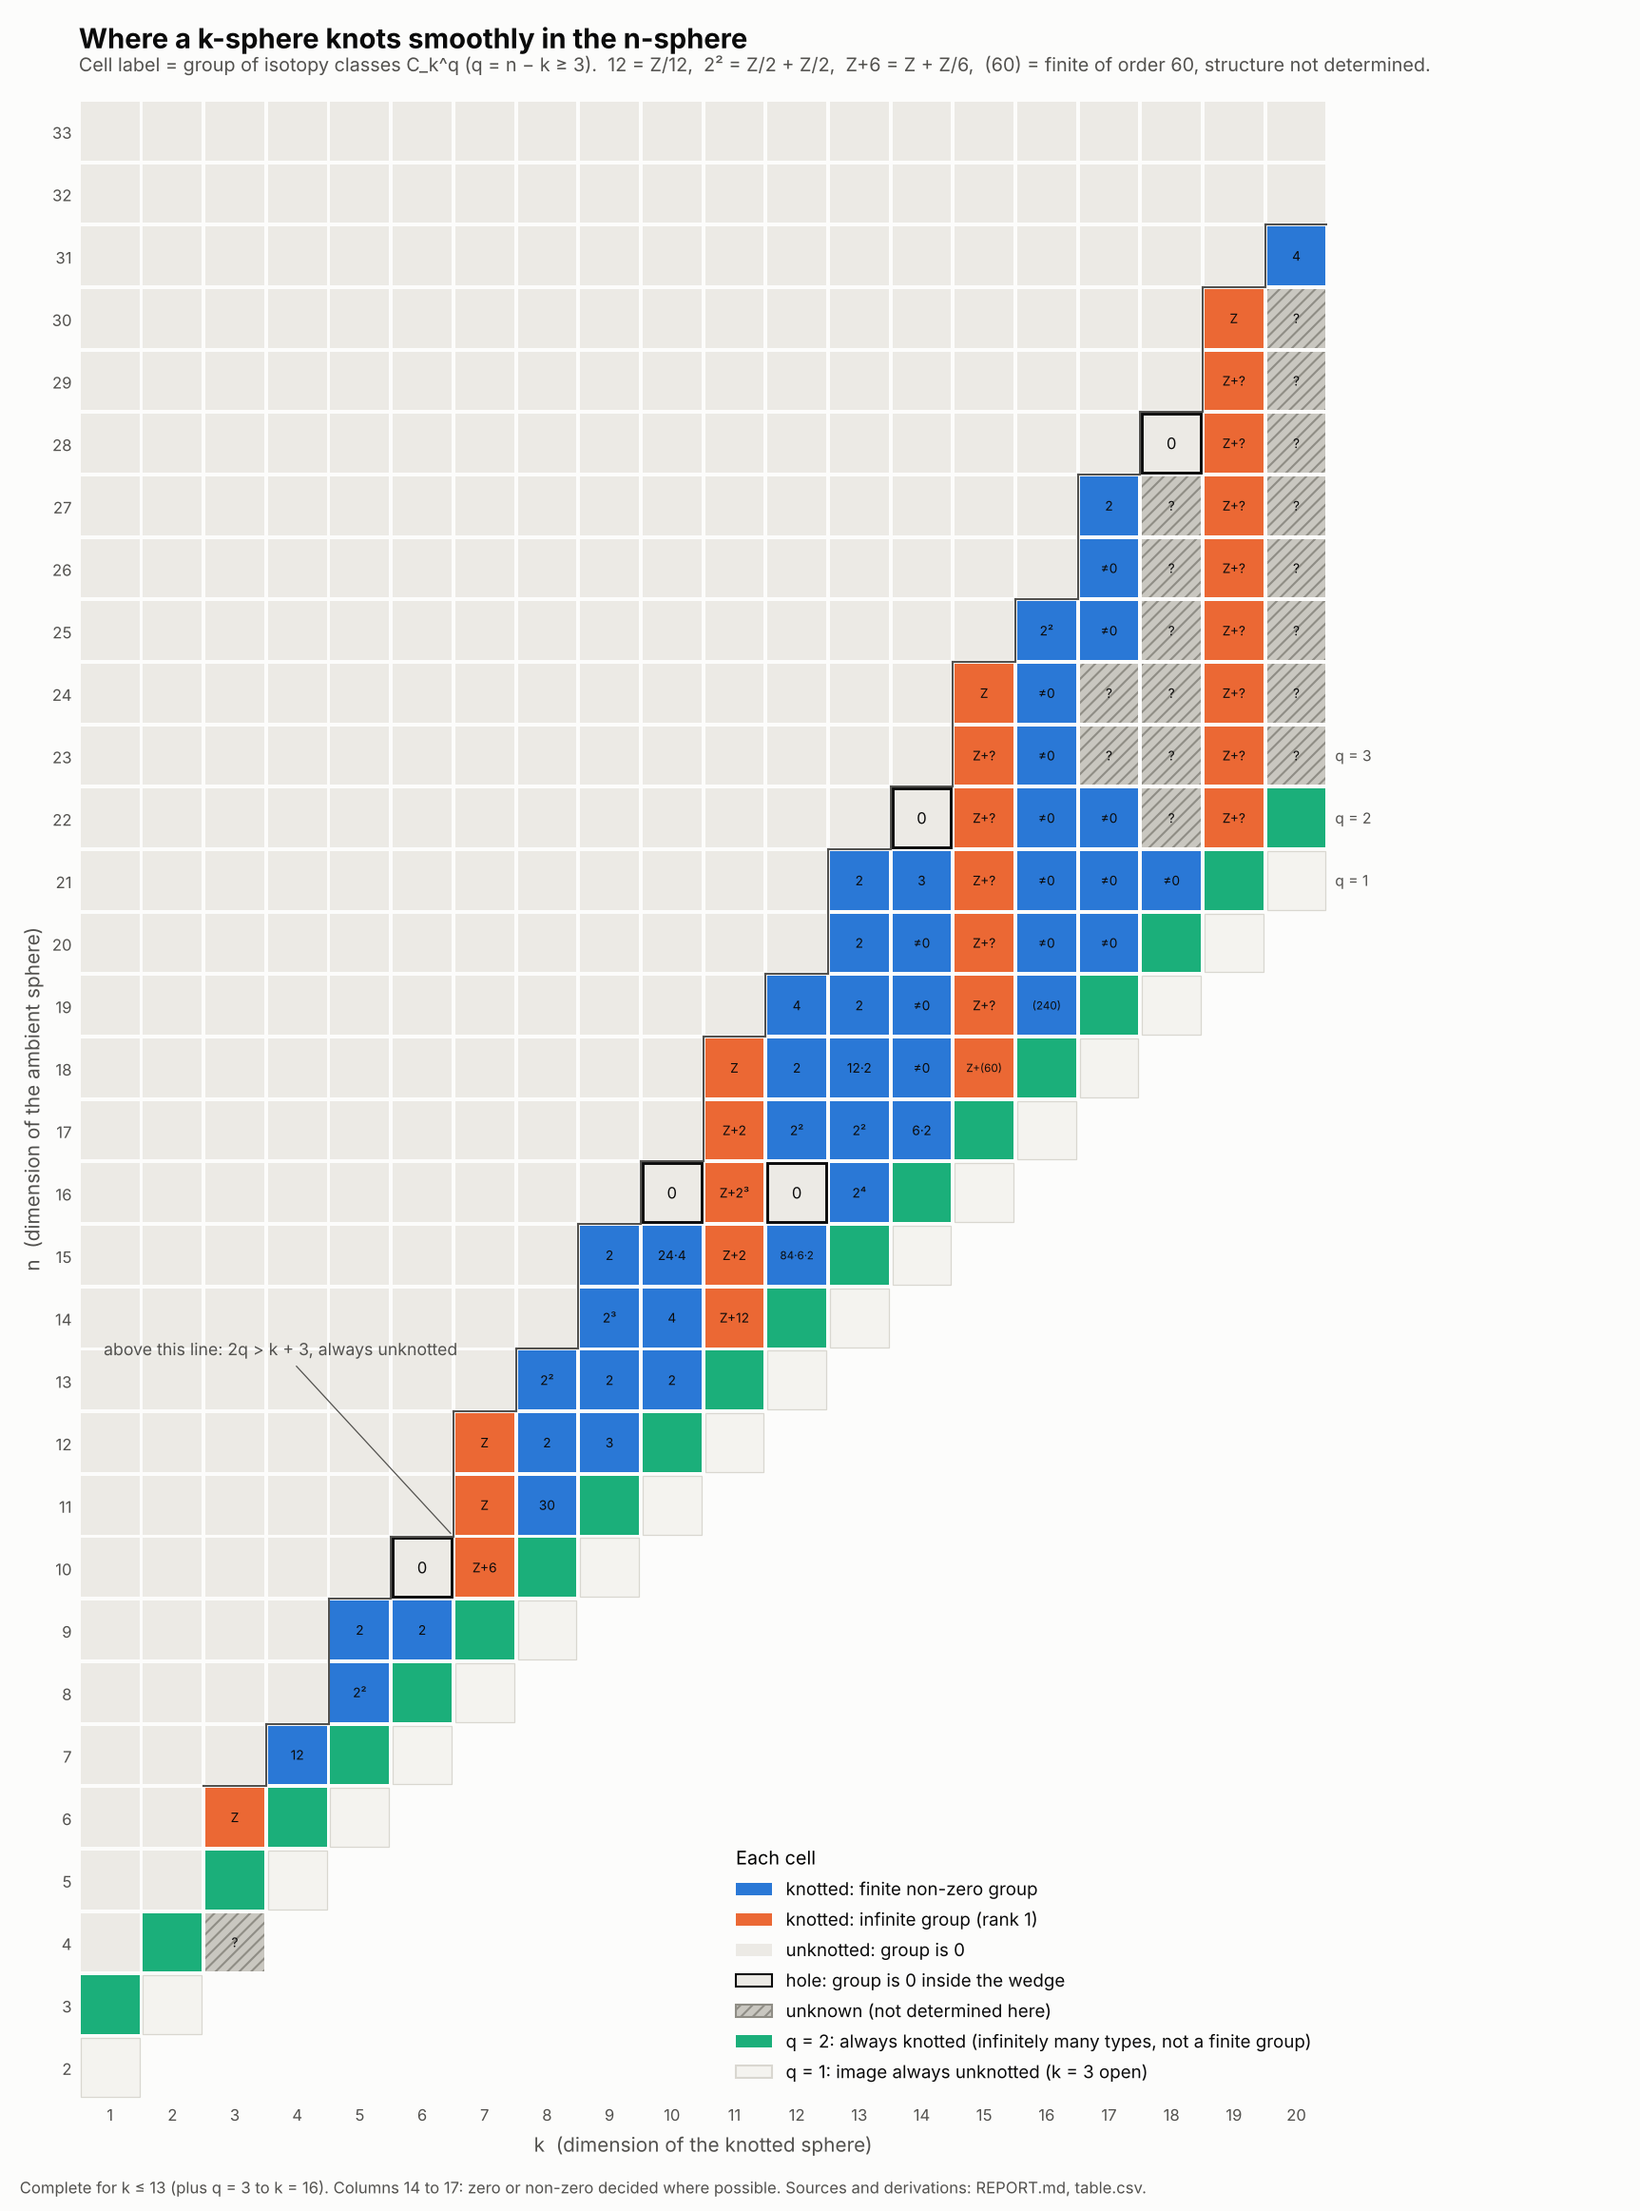
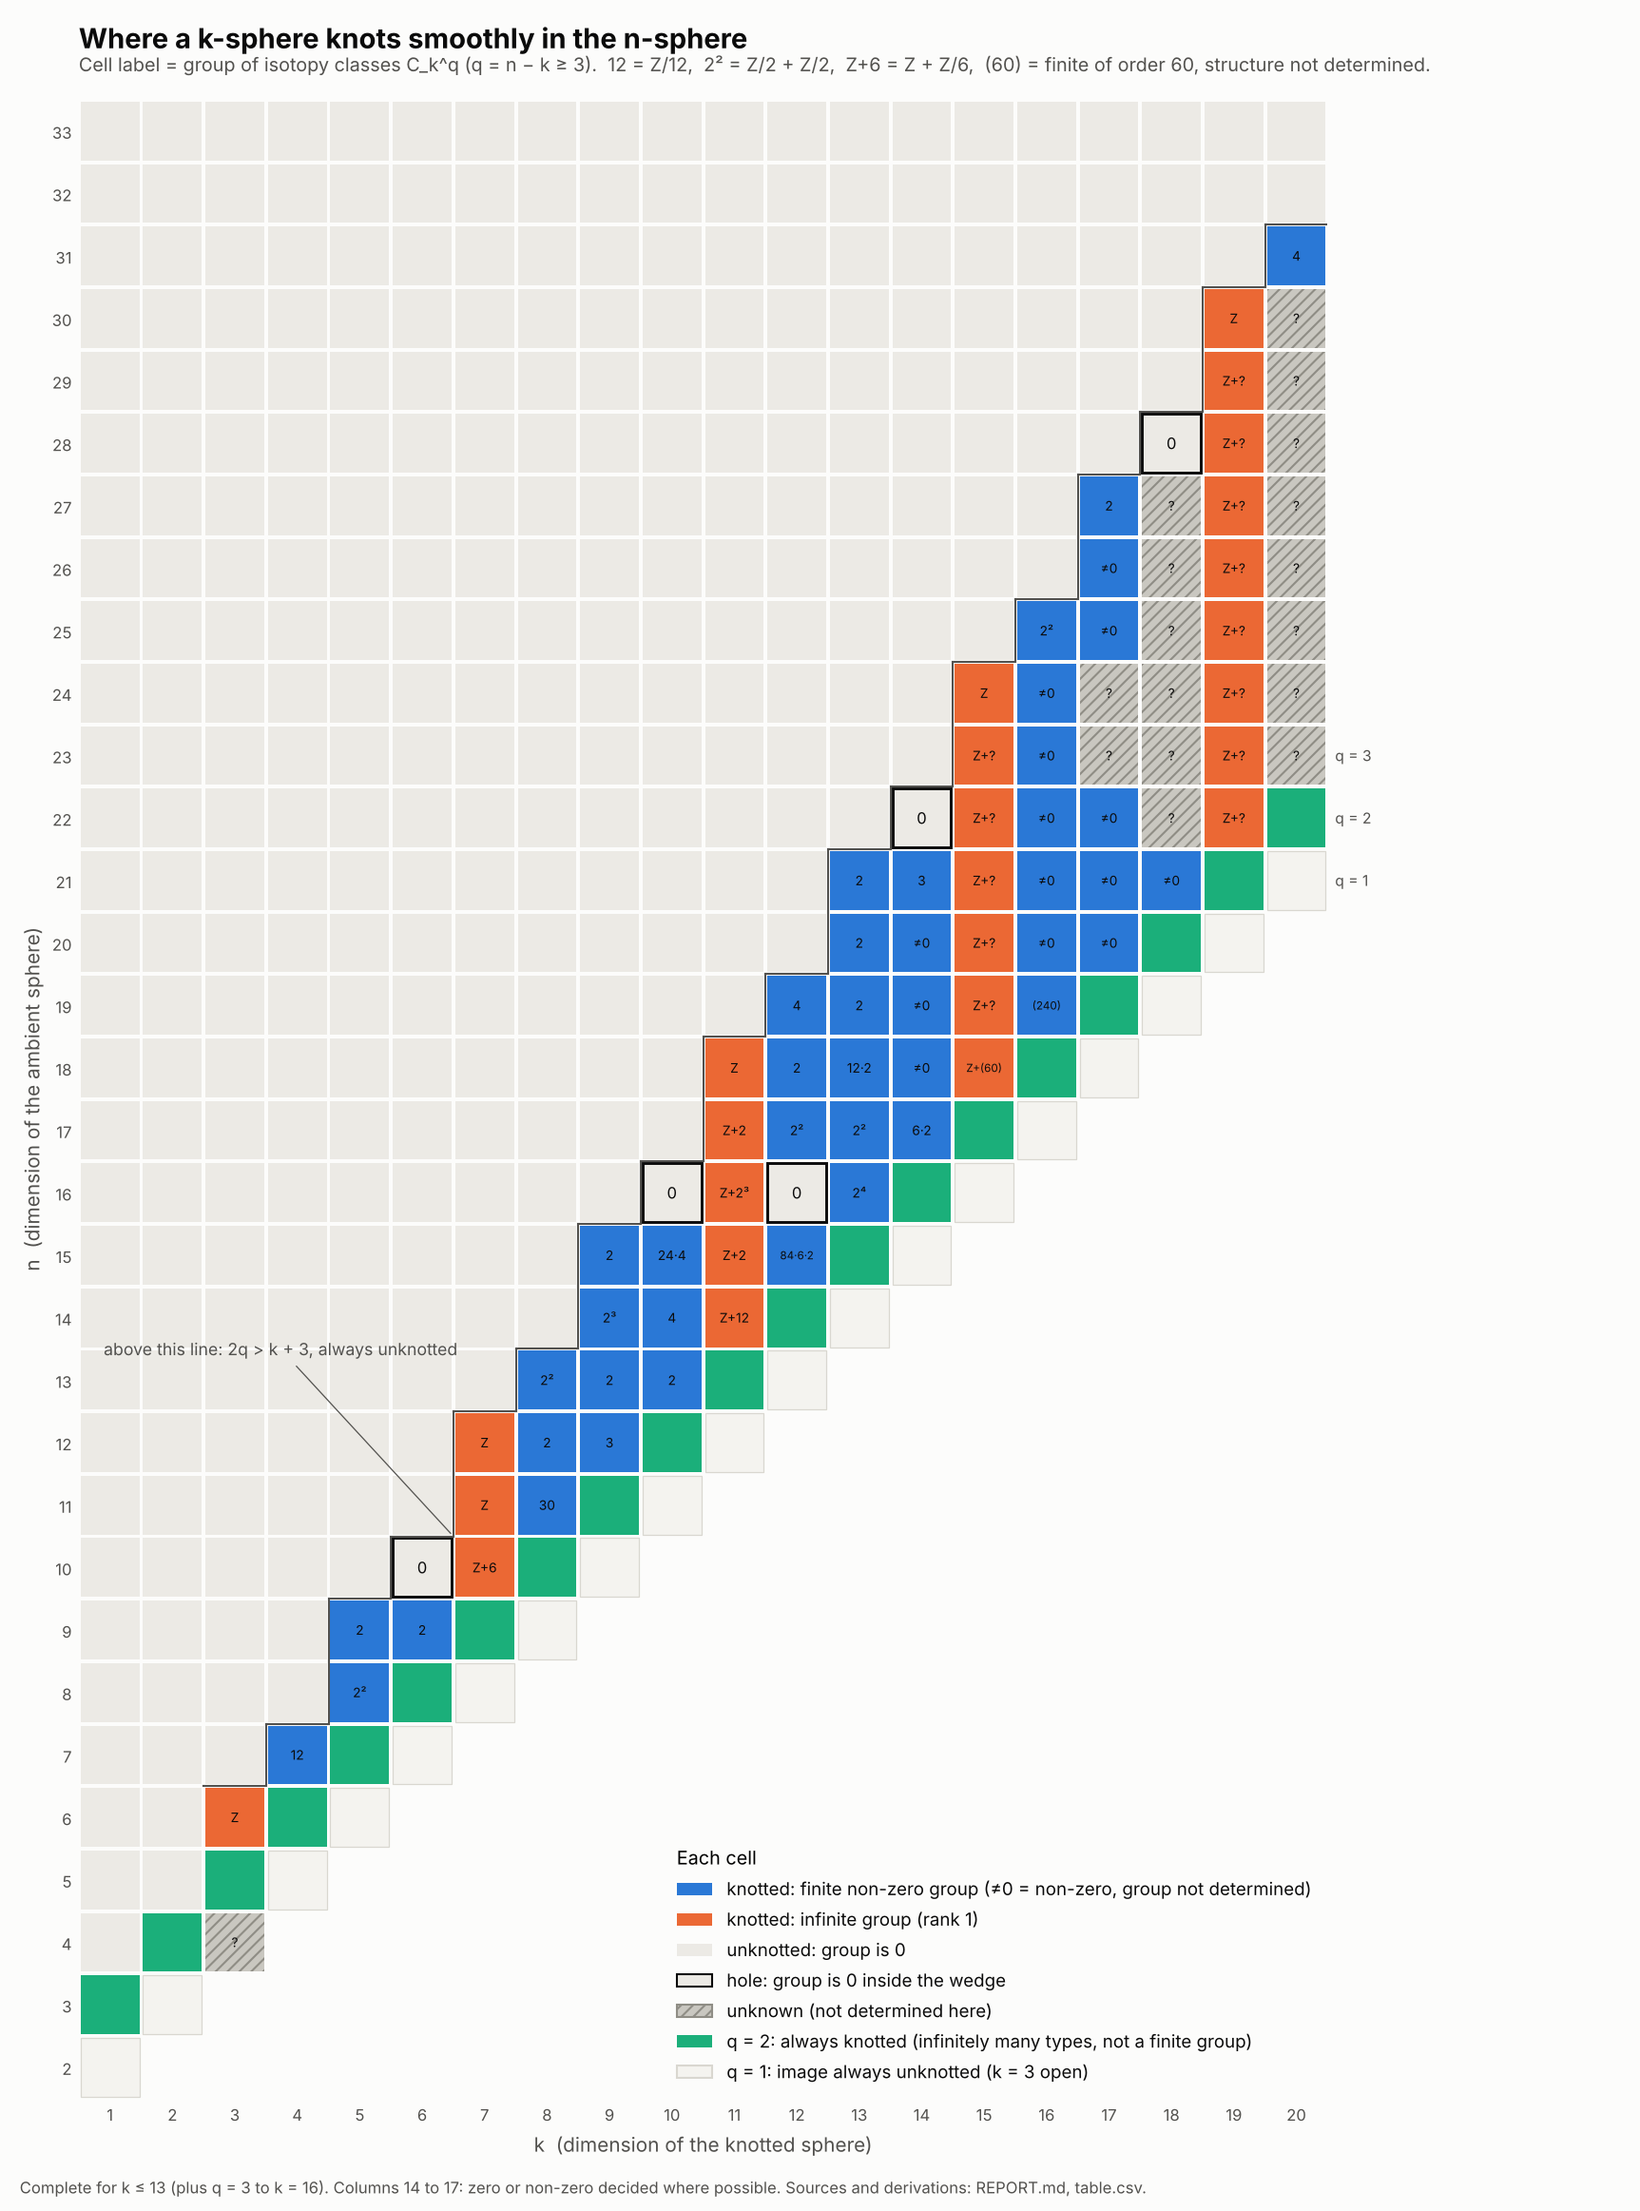
Re-render with non-zero cells labelled; legend fix
Claude-Session: https://claude.ai/code/session_01Nu62apeHrqEGRGmSEApyuE

Changed region(s): [[0.3994, 0.8361, 0.7681, 0.96]]

diff --git a/haefliger-tapestry/render.py b/haefliger-tapestry/render.py
@@ -150,7 +150,7 @@ def fig_knotted(path="tapestry_knotted.png", kmax=K_MAX):
                 draw_cell(ax, k, n, ORANGE, lab)
             else:
                 draw_cell(ax, k, n, BLUE, lab)
-    handles = [Patch(facecolor=BLUE, label="knotted: finite non-zero group"),
+    handles = [Patch(facecolor=BLUE, label="knotted: finite non-zero group (≠0 = non-zero, group not determined)"),
                Patch(facecolor=ORANGE, label="knotted: infinite group (rank 1)"),
                Patch(facecolor=ZERO, label="unknotted: group is 0"),
                Patch(facecolor=ZERO, edgecolor=INK, label="hole: group is 0 inside the wedge"),
